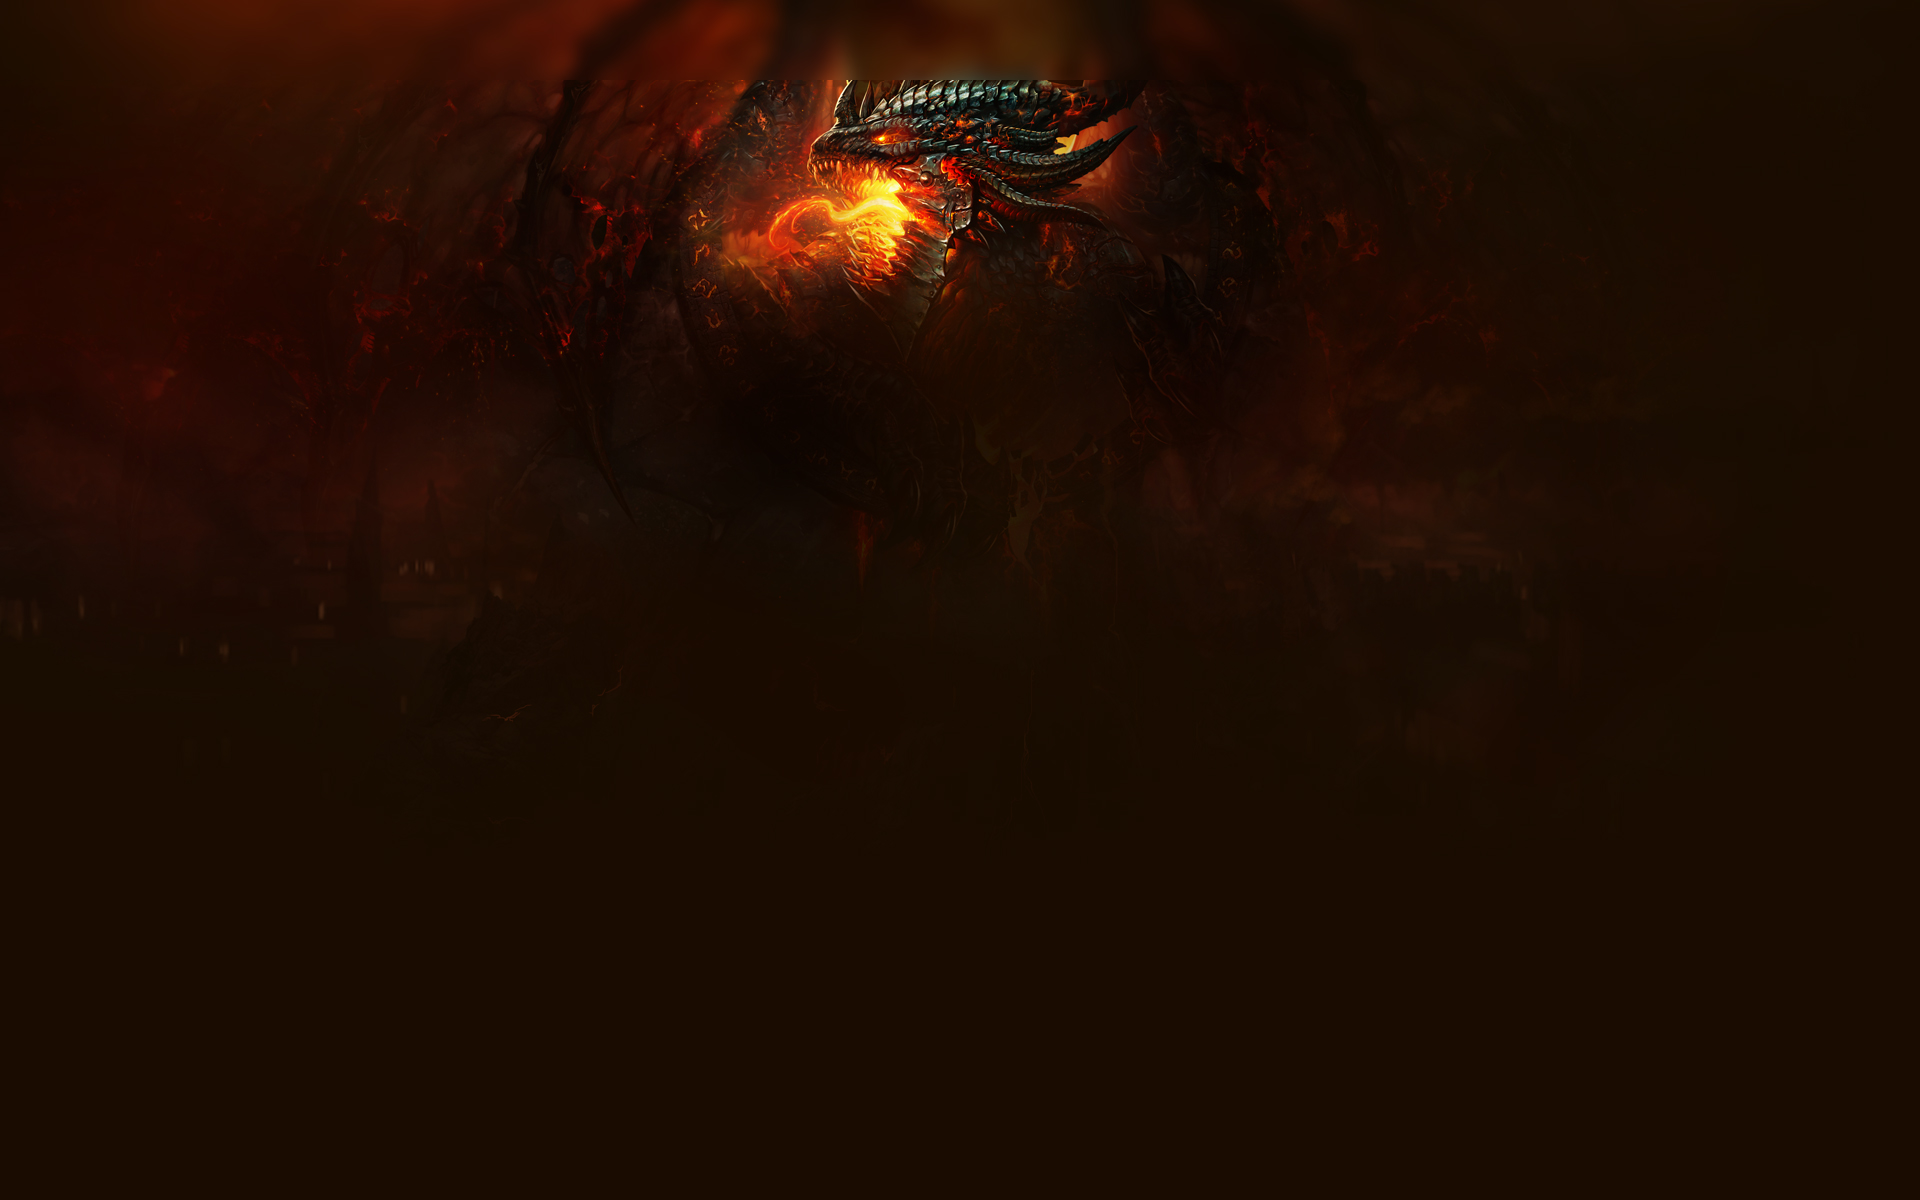
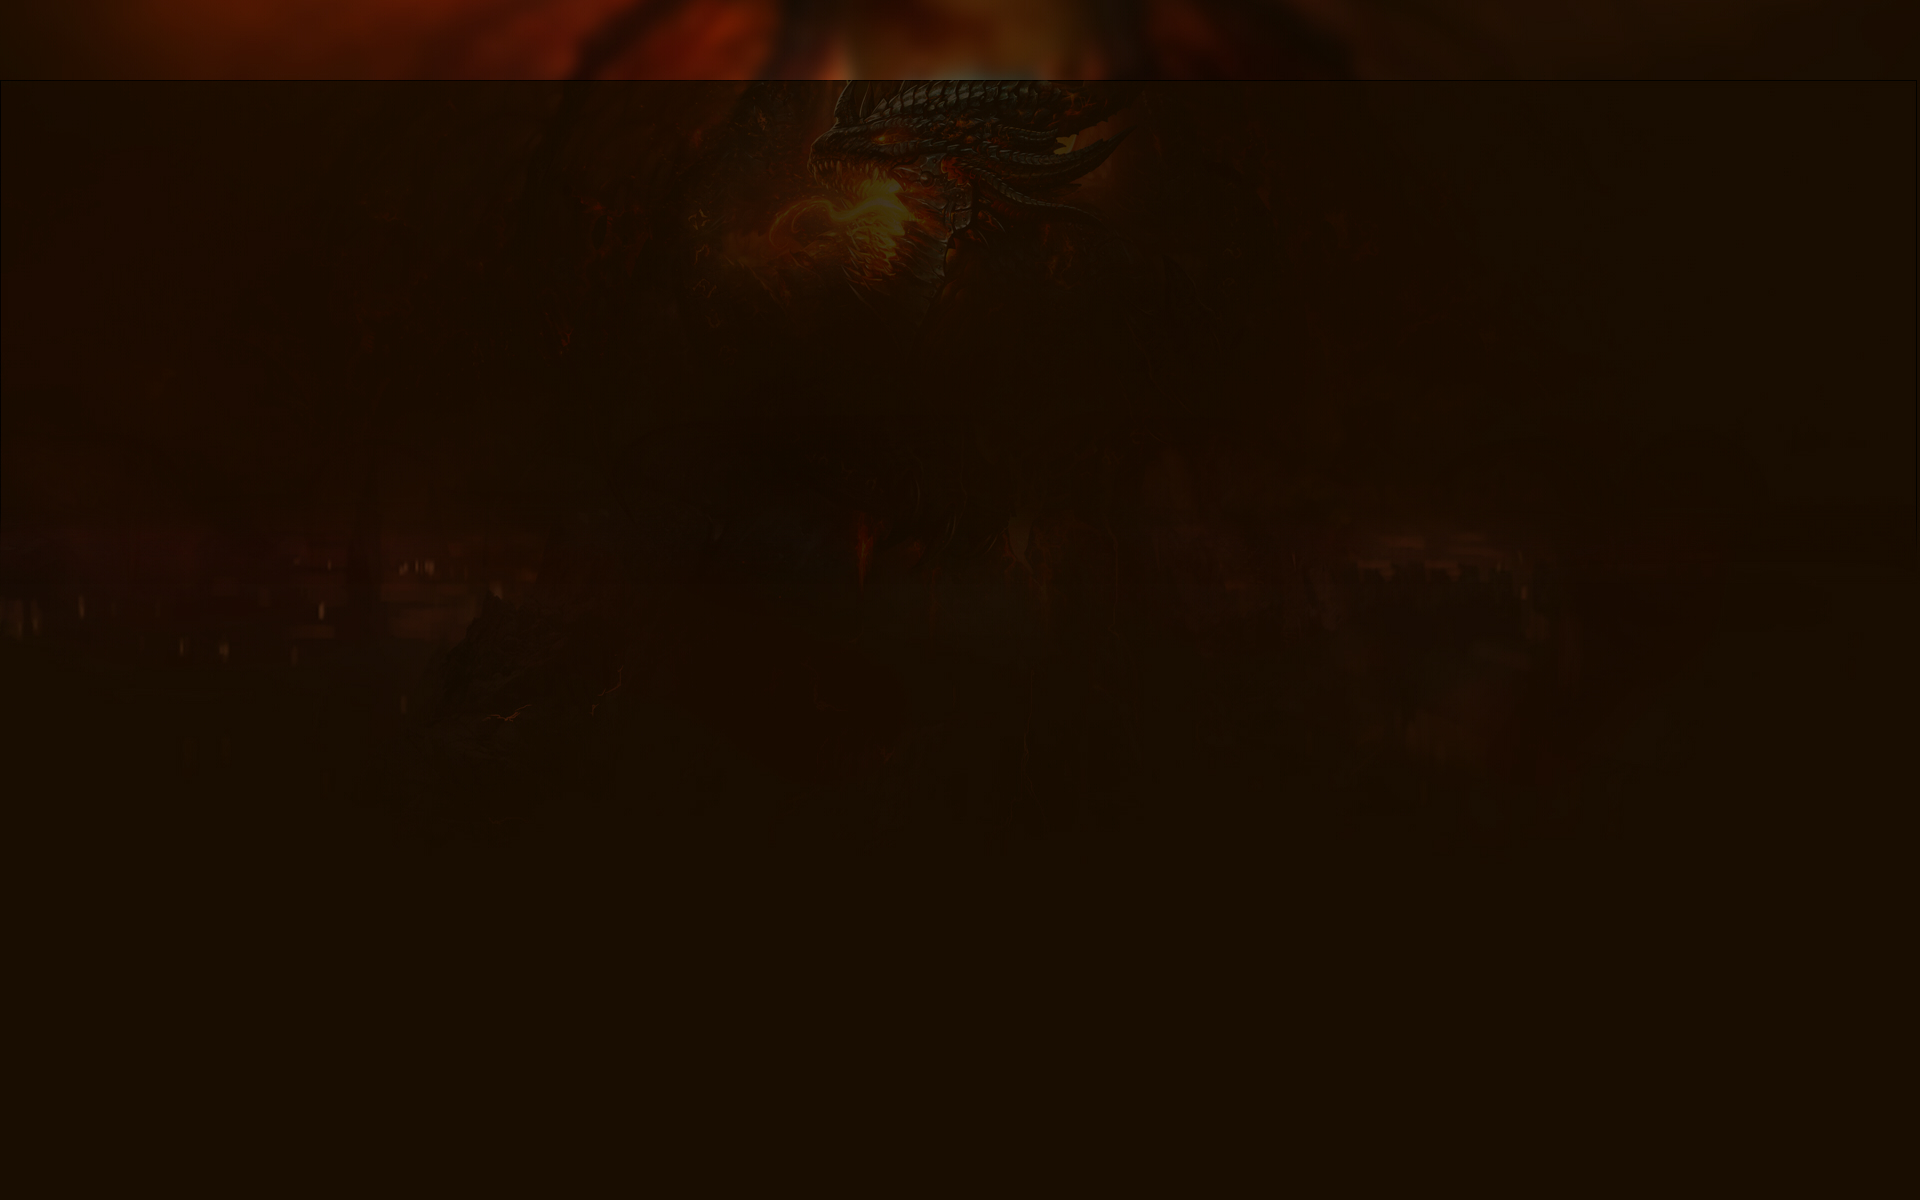
Themes/Cataclysm: fixed some visuals for the forum design and improved background image to work better as news background and fixed base positioning for the glass navigation bar

diff --git a/cataclysm/css/cataclysm.css b/cataclysm/css/cataclysm.css
@@ -1,6 +1,6 @@
-body.cataclysm{background:url(../images/background-fx-top.jpg) center -200px no-repeat,url(../images/background-fx-repeat.jpg) center 1800px repeat-y #1a0c01}@media only screen and (max-width:800px){body.cataclysm{background-position:center -164px}}
-.cataclysm a{color:#00d683}
-.cataclysm a:hover{color:#fff}
+body.cataclysm{background:url(../images/background-fx-top.jpg) center -20px no-repeat,url(../images/background-fx-repeat.jpg) center 1800px repeat-y #1a0c01}@media only screen and (max-width:800px){body.cataclysm{background-position:center -164px}}
+.cataclysm a{color:#979797}
+.cataclysm a:hover{color:#cbcbcb}
 .cataclysm .Navbar-modalContent .menu-content .Community-header-menu{background-color:#3e0001;background-image:url(../images/fx-mobile.jpg)}
 .cataclysm .Navbar-modalContent .menu-content .Community-logo{top:calc(50% - 50px)}
 .cataclysm .Form-control{border-radius:2px}
@@ -35,8 +35,8 @@ body.cataclysm{background:url(../images/background-fx-top.jpg) center -200px no-
 .cataclysm .Welcome-logo{top:20px}
 .cataclysm .Welcome-text{font-size:1.25rem}
 .cataclysm .Welcome-heading{margin-top:1rem}
-.cataclysm .Welcome-logo{left:-25px;top:30px;height:150px}
-.cataclysm .Welcome-text{font-size:1.875rem;line-height:1.2;margin-top:30px}
+.cataclysm .Welcome-logo{left:-25px;top:30px;height:165px}
+.cataclysm .Welcome-text{font-size:1.875rem;line-height:1.2;margin-top:30px;font-family:wow,Blizzard,sans-serif}
 .cataclysm .Community-header{background-color:#190b00;background-image:url(../images/fx-mobile.jpg)}
 .cataclysm .Community-header{background-image:url(../images/fx-glass.jpg)}
 .cataclysm .Search-controls .Search-button .Icon,.cataclysm .Search-controls .Search-button .Navbar-modalContent .menu-content .menu-item .Icon-profileLink,.cataclysm .Search-controls .Search-button .User-menu .Icon-profileLink{background-image:url(../images/icons/icon-sprites-32-wow-gold.png);background-position:-160px -32px;height:32px;width:32px}
@@ -68,8 +68,8 @@ body.cataclysm{background:url(../images/background-fx-top.jpg) center -200px no-
 .cataclysm .ForumCategory-button--collapse{border-radius:0}
 .cataclysm .ForumCategory-button--collapse .Icon,.cataclysm .ForumCategory-button--collapse .Navbar-modalContent .menu-content .menu-item .Icon-profileLink,.cataclysm .ForumCategory-button--collapse .User-menu .Icon-profileLink{background-image:url(../images/icons/icon-sprites-24-wow-gold.png);height:24px;width:24px}@media only screen and (min-width:641px){.ForumCategory-header{margin-top:.25rem;padding-left:2rem;padding-right:2rem}
 .cataclysm .ForumCard-heading{color:#fff}
-.cataclysm .ForumCard-heading{font-family:Morpheus,Blizzard,sans-serif}
-.cataclysm .ForumCards .ForumCard{width:calc((100% / 3) - 1.25rem)}}
+.cataclysm .ForumCard-heading{font-family:wow,Blizzard,sans-serif}
+.cataclysm .ForumCards .ForumCard{width:calc((100% / 3) - 1.25rem);box-shadow:0 0 0 1px #000}
 .cataclysm .ForumTopic-type .Icon,.cataclysm .ForumTopic-type .Navbar-modalContent .menu-content .menu-item .Icon-profileLink,.cataclysm .ForumTopic-type .User-menu .Icon-profileLink{background-image:url(../images/icons/icon-sprites-24-wow-gold.png);height:24px;width:24px}
 .cataclysm .ForumTopic.is-spam .ForumTopic-type .Icon,.cataclysm .ForumTopic.is-spam .ForumTopic-type .Navbar-modalContent .menu-content .menu-item .Icon-profileLink,.cataclysm .ForumTopic.is-spam .ForumTopic-type .User-menu .Icon-profileLink{background-image:url(../images/icons/icon-sprites-24-wow-gold.png);height:24px;width:24px}
 .cataclysm .ForumTopic--featured{background-color:rgba(248,183,0,.15)}
@@ -112,4 +112,4 @@ body.cataclysm{background:url(../images/background-fx-top.jpg) center -200px no-
 .cataclysm .Topic-button--solutionPost:hover .Icon-next{background-image:url(../images/icons/icon-sprites-16-white.png);height:16px;width:16px}
 .cataclysm .Post-actions .Post-button{border-radius:0}
 @font-face{font-family:'Lobster';font-style:normal;font-weight:400;src:local("Lobster Regular"),local("Lobster-Regular"),url("../fonts/Lobster-Regular.ttf") format("truetype")}
-.cataclysm .Project-logo{font-family:'Lobster';font-size:30px;color:#fff;}
+.cataclysm .Project-logo{font-family:Morpheus;font-size:30px;color:#fff;}
